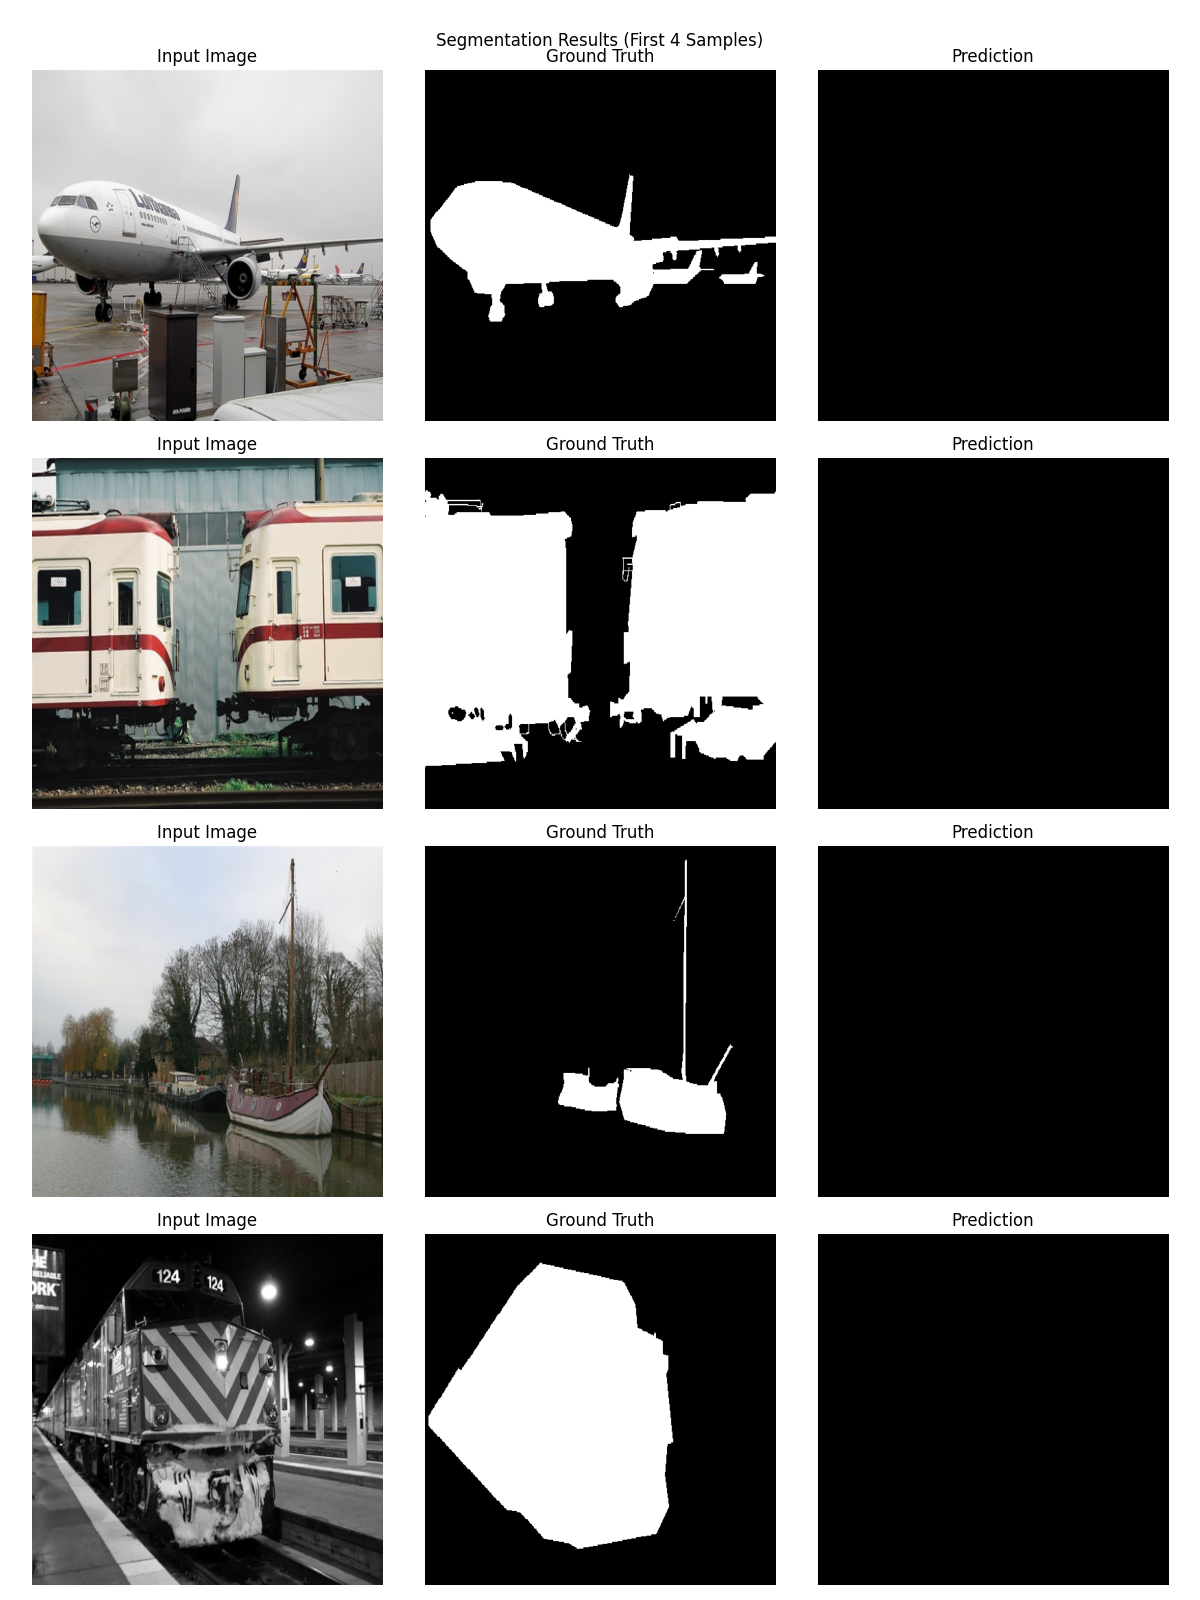
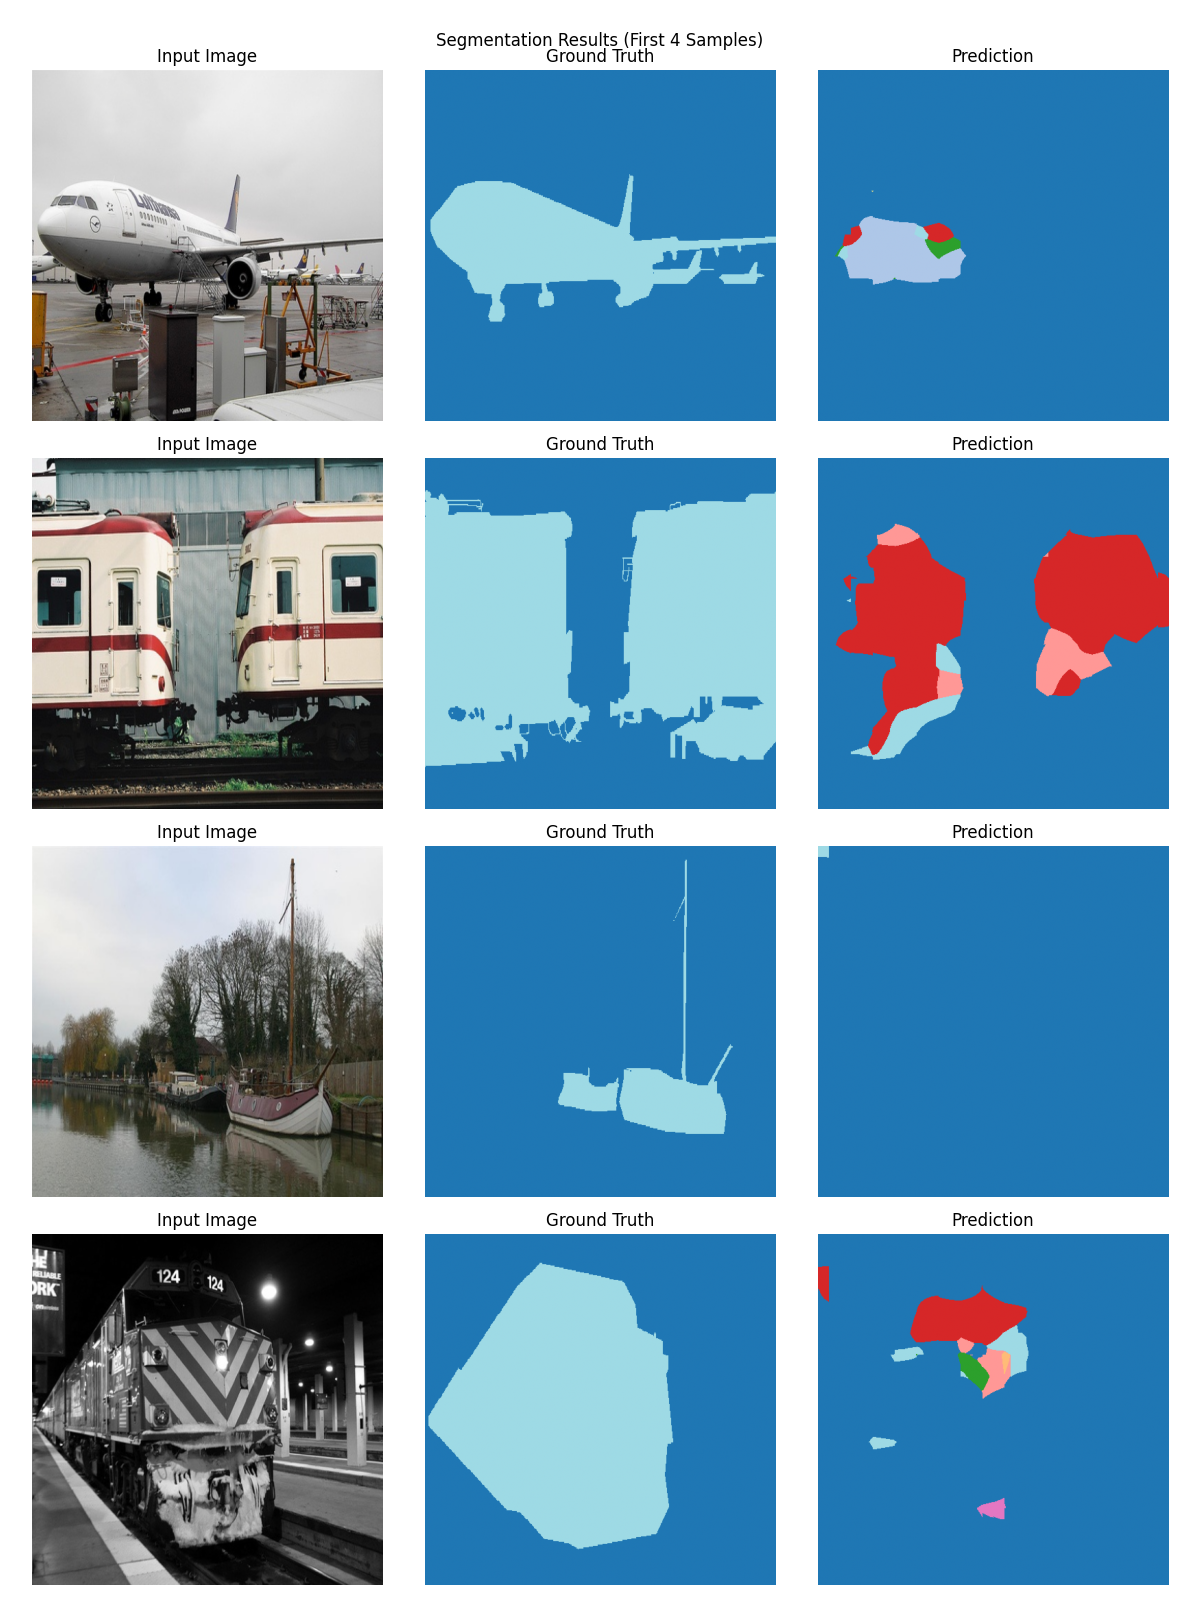
Increase training epochs to 100 and update model training configuration to include all models

diff --git a/Advanced_Image_Segmentation/codes/lab05_student.py b/Advanced_Image_Segmentation/codes/lab05_student.py
@@ -1482,7 +1482,7 @@ def main(model_name=None):
         'n_classes': 21,
         'batch_size': 32,  # RTX 3090: 8→32 (4x increase with 24GB VRAM)
         'learning_rate': 3e-4,  # Increased LR for larger batch size (linear scaling)
-        'epochs': 10,  # Increased from 30 for better convergence with augmentation
+        'epochs': 100,  # Increased from 30 for better convergence with augmentation
         'device': device,
         'image_size': 512,  # RTX 3090: 256→512 (higher resolution for better accuracy)
         'data_dir': '../../voc/VOC2012_train_val/VOC2012_train_val',
@@ -2196,7 +2196,7 @@ if __name__ == "__main__":
     
     # ==================== CONFIGURATION ====================
     # Set which operations to run
-    TRAIN_MODELS = ['fcn8s']  # List of models: ['fcn32s', 'fcn16s', 'fcn8s', 'deeplabv3plus', 'minisam']
+    TRAIN_MODELS = ['all']  # List of models: ['fcn32s', 'fcn16s', 'fcn8s', 'deeplabv3plus', 'minisam']
                               # Or use 'all' to train all models sequentially
     RUN_COMPARISON = True     # Compare all trained models
     RUN_INTERACTIVE_DEMO = False  # Run Mini-SAM interactive demo
